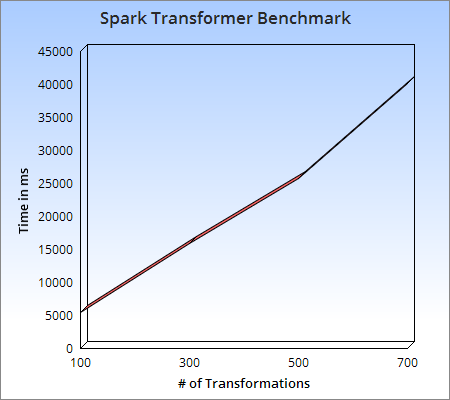
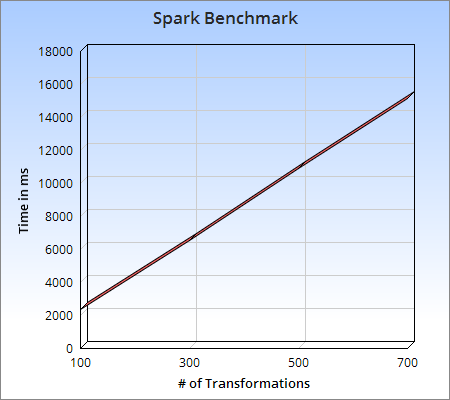
Update benchmark results.

diff --git a/blog/mleap.md b/blog/mleap.md
@@ -100,7 +100,7 @@ curl -v -XPOST \
 -d @/tmp/frame.json http://localhost:8080/transform
 ```
 
-And voilà, we have our transformed LeapFrame with our price prediction as the last value in the array. This transformation did not use a SparkContext, and we did not have to include any Spark libraries to make it happen. On average, the actual transformation time is about __.034ms__, with serialization/deserialization taking up the majority of time in our API server. If we were to take the simple approach of Kryo serializing our Spark pipeline then running it with a local SparkContext on our API server, average transformation time increases cramatically to __54ms__, which is not scalable.
+And voilà, we have our transformed LeapFrame with our price prediction as the last value in the array. This transformation did not use a SparkContext, and we did not have to include any Spark libraries to make it happen. On average, the actual transformation time is about __.034ms__, with serialization/deserialization taking up the majority of time in our API server. If we were to take the simple approach of Kryo serializing our Spark pipeline then running it with a local SparkContext on our API server, average transformation time increases cramatically to __22ms__, which is not scalable.
 
 ## Benchmarks
 
@@ -122,7 +122,7 @@ This benchmark takes the transformer we built then transforms the sample datafra
 
 ### Spark Benchmark
 
-This benchmark takes the Spark transformer we built then transforms the sample dataframe using a SparkContext over and over again. We are trying to simulate what it would be like if we were to serialize our Spark pipelines with Kryo, load them into an API server, and execute them with realtime one-off requests using a local SparkContext with master set to "local[2]". Every single request requires the creation of an RDD which in turn requires the scheduler. This is an expensive operation, hence why we see the drastically reduced performance speed. The average time for a transform pipeline to execute is __54ms__, almost __1600x__ slower than the same pipeline in MLeap. Note: we were only able to benchmark with far fewer transformations because of the speed difference and the sampling methodology used by [Scalameter](https://scalameter.github.io/).
+This benchmark takes the Spark transformer we built then transforms the sample dataframe using a SparkContext over and over again. We are trying to simulate what it would be like if we were to serialize our Spark pipelines with Kryo, load them into an API server, and execute them with realtime one-off requests using a local SparkContext with master set to "local[2]". Every single request requires the creation of a plan for the DataFrame. This is an expensive operation, hence why we see the reduced performance speed. The average time for a transform pipeline to execute is about __22ms__.
 
 ![Spark Benchmark](spark_benchmark.png)
 
